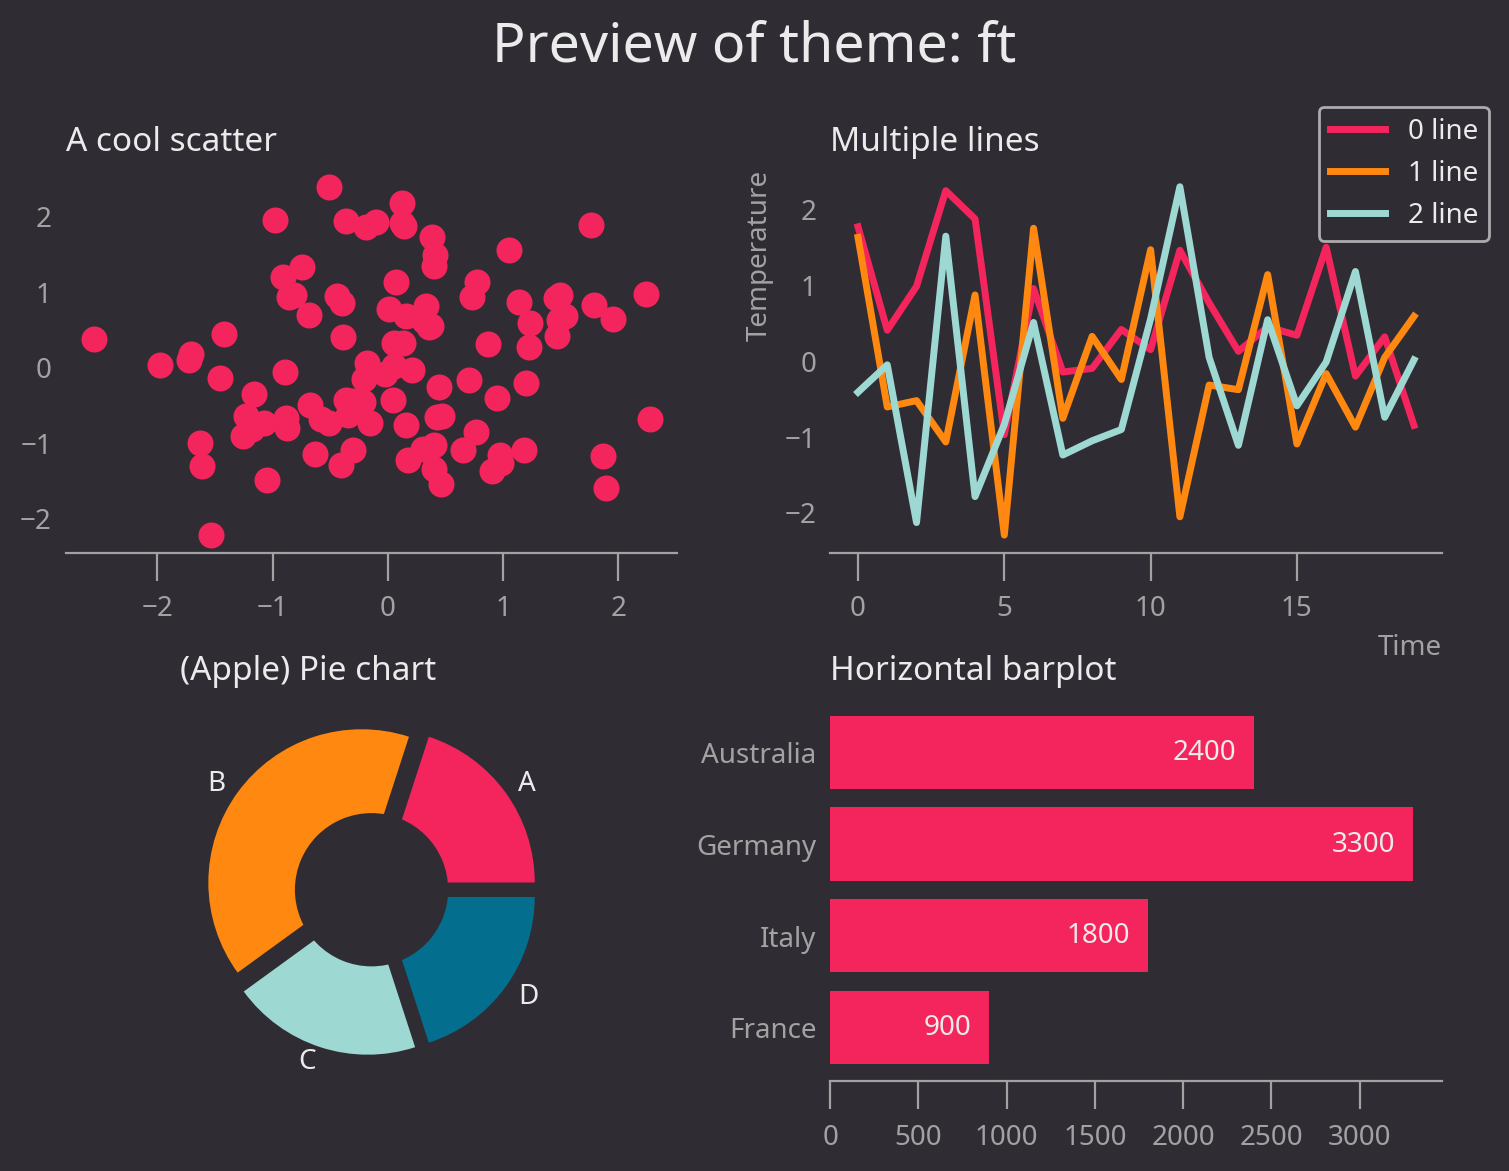
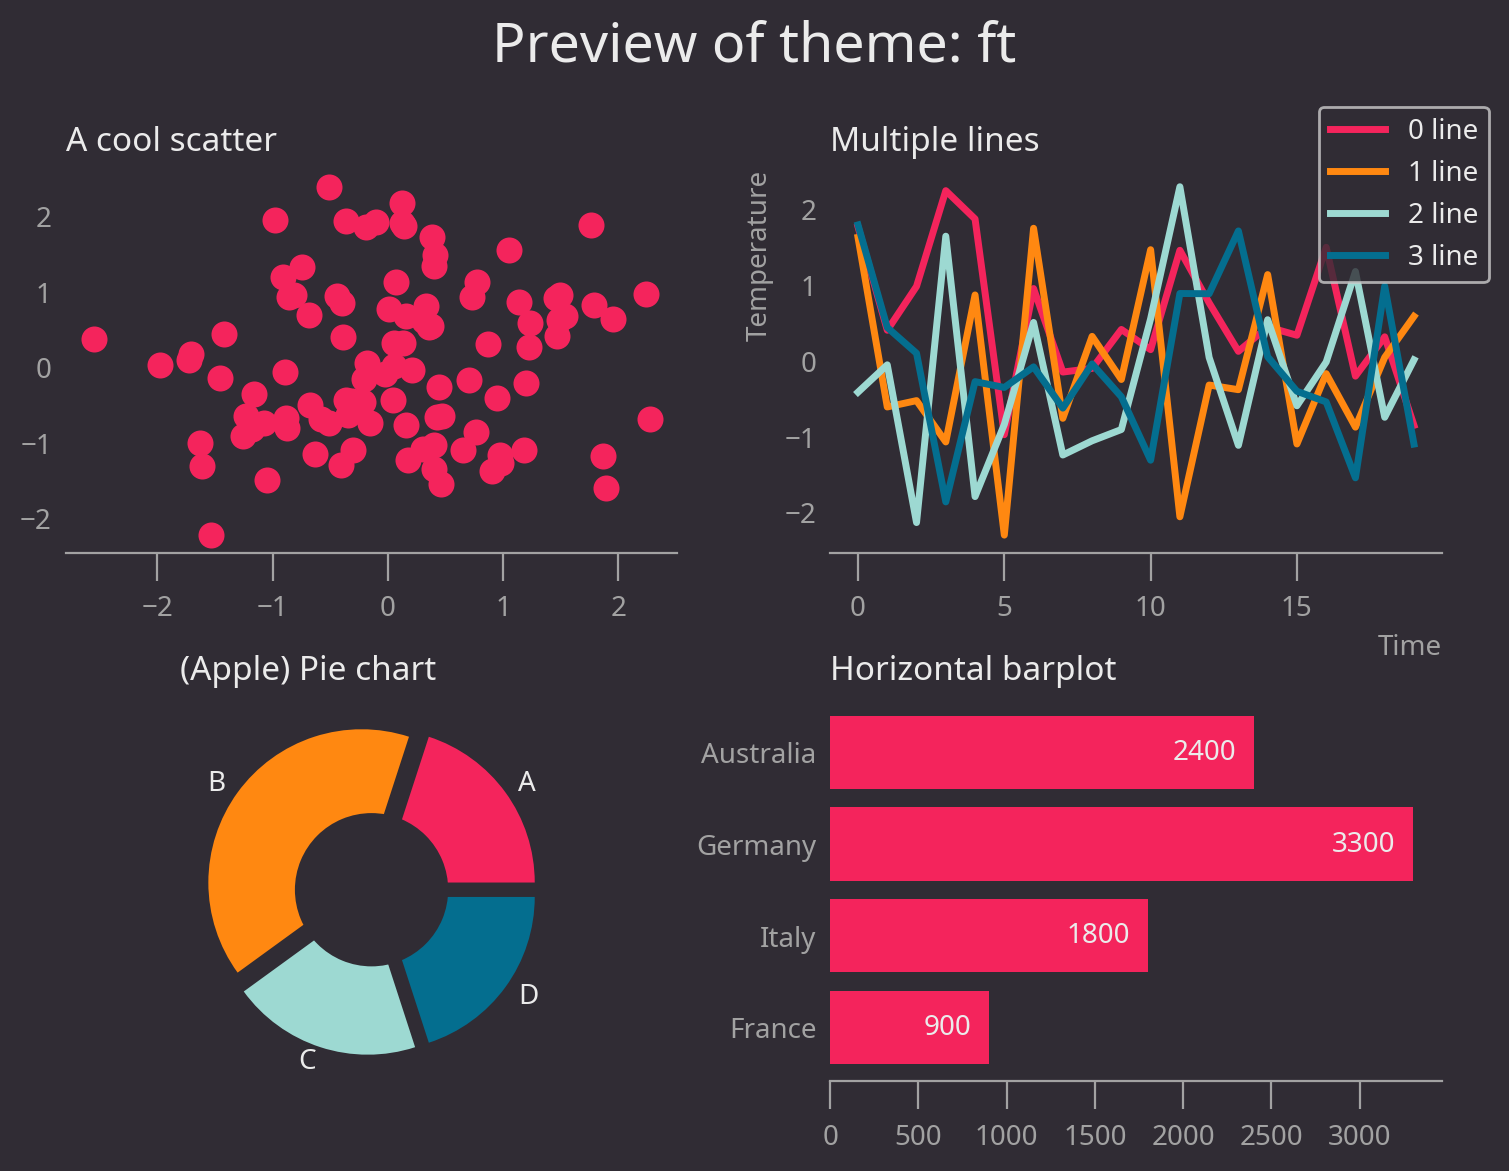
2 new themes + fix typos in doc + small stuff (#33)
* fix typos in doc + small stuff

* add color blind friendly theme

* new dark theme

* typos

* update theme order + small fix

* reorder

diff --git a/morethemes/themes.py b/morethemes/themes.py
@@ -3,7 +3,7 @@ from matplotlib import font_manager
 from pyfonts import load_google_font
 
 
-def _set_family(family, **kargs):
+def _set_family(family: str, **kargs) -> str:
     font = load_google_font(family, **kargs)
     font_file = font.get_file()
     font_manager.fontManager.addfont(font_file)
@@ -532,6 +532,81 @@ nord_theme = {
     },
 }
 
+lumen_theme = {
+    "name": "lumen",
+    "description": "Color-blind-friendly light theme with clear colors and soft background.",
+    "theme": {
+        "font.family": _set_family("Manrope"),
+        "axes.spines.top": False,
+        "axes.spines.right": False,
+        "xtick.minor.visible": False,
+        "ytick.minor.visible": False,
+        "xtick.major.size": 5,
+        "ytick.major.size": 5,
+        "axes.grid": True,
+        "grid.color": "#DDDDDD",
+        "grid.alpha": 0.3,
+        "grid.linestyle": "-",
+        "axes.linewidth": 1.2,
+        "text.color": "#222222",
+        "axes.edgecolor": "#222222",
+        "axes.labelcolor": "#222222",
+        "xtick.color": "#222222",
+        "ytick.color": "#222222",
+        "axes.facecolor": "#FFFFFF",
+        "figure.facecolor": "#FFFFFF",
+        "lines.linewidth": 2,
+        "axes.prop_cycle": cycler(
+            "color",
+            [
+                "#E69F00",
+                "#56B4E9",
+                "#009E73",
+                "#F0E442",
+                "#0072B2",
+                "#D55E00",
+                "#CC79A7",
+            ],
+        ),
+    },
+}
+
+ebonis_theme = {
+    "name": "ebonis",
+    "description": "Color-blind-friendly dark theme with high contrast and soft tones for dark backgrounds.",
+    "theme": {
+        "font.family": _set_family("Bricolage Grotesque"),
+        "axes.spines.top": False,
+        "axes.spines.right": False,
+        "xtick.minor.visible": False,
+        "ytick.minor.visible": False,
+        "xtick.major.size": 5,
+        "ytick.major.size": 5,
+        "axes.grid": False,
+        "axes.linewidth": 1.2,
+        "text.color": "#EEEEEE",
+        "axes.edgecolor": "#EEEEEE",
+        "axes.labelcolor": "#EEEEEE",
+        "xtick.color": "#EEEEEE",
+        "ytick.color": "#EEEEEE",
+        "axes.facecolor": "#0e0e0eff",
+        "figure.facecolor": "#0e0e0eff",
+        "lines.linewidth": 2,
+        "axes.prop_cycle": cycler(
+            "color",
+            [
+                "#E69F00",
+                "#56B4E9",
+                "#0072B2",
+                "#F0E442",
+                "#CC79A7",
+                "#D55E00",
+                "#009E73",
+            ],
+        ),
+    },
+}
+
 
 ALL_THEMES = {
     "wsj": wsj_theme,
@@ -541,10 +616,12 @@ ALL_THEMES = {
     "nature": nature_theme,
     "economist": economist_theme,
     "greenwave": greenwave_theme,
+    "lumen": lumen_theme,
+    "ebonis": ebonis_theme,
+    "lighter": lighter_theme,
     "vscode-dark": vscode_dark_theme,
     "nord": nord_theme,
     "retro": retro_theme,
-    "lighter": lighter_theme,
     "darker": darker_theme,
     "yellowish": yellowish_theme,
     "monoblue": monoblue_theme,

diff --git a/morethemes/preview.py b/morethemes/preview.py
@@ -1,10 +1,10 @@
 import matplotlib.pyplot as plt
-import matplotlib as mpl
+from matplotlib.figure import Figure
 import morethemes as mt
 import numpy as np
 
 
-def preview_theme(theme=None) -> mpl.figure.Figure:
+def preview_theme(theme=None) -> Figure:
     if theme is not None:
         mt.set_theme(theme)
     np.random.seed(0)
@@ -19,7 +19,7 @@ def preview_theme(theme=None) -> mpl.figure.Figure:
         x=0, y=1.05, s="A cool scatter", transform=axs[0, 0].transAxes, size=12
     )
 
-    for i in range(3):
+    for i in range(4):
         np.random.seed(i)
         axs[0, 1].plot(list(range(20)), np.random.normal(size=20), label=f"{i} line")
     axs[0, 1].legend(loc="upper right", bbox_to_anchor=(1.1, 1.2))

diff --git a/tests/test_main.py b/tests/test_main.py
@@ -1,3 +1,4 @@
+from matplotlib.figure import Figure
 import matplotlib as mpl
 import matplotlib.pyplot as plt
 import pytest
@@ -42,4 +43,4 @@ def test_set_theme_default():
 def test_preview_theme():
     """Check that preview theme works"""
     fig = mt.preview_theme("ft")
-    assert isinstance(fig, mpl.figure.Figure)
+    assert isinstance(fig, Figure)

diff --git a/README.md b/README.md
@@ -32,7 +32,7 @@ function.
 
 ## Themes
 
-**`morethemes`** offers 14 themes at the moment:
+**`morethemes`** offers 16 themes at the moment:
 
 ### WSJ
 
@@ -97,6 +97,33 @@ mt.set_theme("greenwave")
 
 [![](https://raw.githubusercontent.com/y-sunflower/morethemes/refs/heads/main/docs/img/greenwave.png)](https://y-sunflower.github.io/morethemes/)
 
+### LUMEN
+
+``` python
+import morethemes as mt
+mt.set_theme("lumen")
+```
+
+[![](https://raw.githubusercontent.com/y-sunflower/morethemes/refs/heads/main/docs/img/lumen.png)](https://y-sunflower.github.io/morethemes/)
+
+### EBONIS
+
+``` python
+import morethemes as mt
+mt.set_theme("ebonis")
+```
+
+[![](https://raw.githubusercontent.com/y-sunflower/morethemes/refs/heads/main/docs/img/ebonis.png)](https://y-sunflower.github.io/morethemes/)
+
+### LIGHTER
+
+``` python
+import morethemes as mt
+mt.set_theme("lighter")
+```
+
+[![](https://raw.githubusercontent.com/y-sunflower/morethemes/refs/heads/main/docs/img/lighter.png)](https://y-sunflower.github.io/morethemes/)
+
 ### VSCODE-DARK
 
 ``` python
@@ -123,15 +150,6 @@ mt.set_theme("retro")
 ```
 
 [![](https://raw.githubusercontent.com/y-sunflower/morethemes/refs/heads/main/docs/img/retro.png)](https://y-sunflower.github.io/morethemes/)
-
-### LIGHTER
-
-``` python
-import morethemes as mt
-mt.set_theme("lighter")
-```
-
-[![](https://raw.githubusercontent.com/y-sunflower/morethemes/refs/heads/main/docs/img/lighter.png)](https://y-sunflower.github.io/morethemes/)
 
 ### DARKER
 

diff --git a/docs/index.md b/docs/index.md
@@ -16,7 +16,7 @@ line of code.
 
 ## Themes
 
-**`morethemes`** offers 14 themes at the moment:
+**`morethemes`** offers 16 themes at the moment:
 
 === "WSJ"
 
@@ -95,6 +95,39 @@ line of code.
 
     A sleek, dark-themed aesthetic with vibrant green accents, inspired by modern streaming interfaces. Designed for clarity and style, with bold typography and a focus on visual harmony.
 
+=== "LUMEN"
+
+    ![](img/lumen.png)
+
+    ```python
+    import morethemes as mt
+    mt.set_theme("lumen")
+    ```
+
+    Color-blind-friendly light theme with clear colors and soft background.
+
+=== "EBONIS"
+
+    ![](img/ebonis.png)
+
+    ```python
+    import morethemes as mt
+    mt.set_theme("ebonis")
+    ```
+
+    Color-blind-friendly dark theme with high contrast and soft tones for dark backgrounds.
+
+=== "LIGHTER"
+
+    ![](img/lighter.png)
+
+    ```python
+    import morethemes as mt
+    mt.set_theme("lighter")
+    ```
+
+    A clean, modern theme inspired by the lighter aesthetic, perfect for technical charts.
+
 === "VSCODE-DARK"
 
     ![](img/vscode-dark.png)
@@ -127,17 +160,6 @@ line of code.
     ```
 
     A nostalgic theme inspired by vintage graphics and retro gaming.
-
-=== "LIGHTER"
-
-    ![](img/lighter.png)
-
-    ```python
-    import morethemes as mt
-    mt.set_theme("lighter")
-    ```
-
-    A clean, modern theme inspired by the lighter aesthetic, perfect for technical charts.
 
 === "DARKER"
 

diff --git a/docs/guide/reference.md b/docs/guide/reference.md
@@ -2,17 +2,7 @@ This document explains everything you need to get started using **`morethemes`**
 
 <br>
 
-## Install
-
-```bash
-pip install morethemes
-```
-
-<br>
-
-## Functions
-
-### `mt.set_theme()`
+## `mt.set_theme()`
 
 `mt.set_theme()` is the **main function** you'll need. It basically has 2 arguments:
 
@@ -29,7 +19,7 @@ mt.set_theme("wsj") # Wall Street Journal
 
 <br>
 
-### `mt.get_rcparams()`
+## `mt.get_rcparams()`
 
 You can get the current rcParams of a given theme by calling `mt.get_rcparams()`. It takes one argument: `theme_name` and returns a dictionary of rcParams.
 
@@ -53,8 +43,8 @@ Another usage of this function is to avoid adding **`morethemes`** in your depen
 
 <br>
 
-### `mt.preview_theme()`
+## `mt.preview_theme()`
 
-A convenient function when creating a theme. It will make many different charts and you'll easily be able to view how your theme currently looks like. Learn more in [create your theme page](../create-your-theme/).
+A convenient function when creating a theme. It will make many different charts and you'll easily be able to view how your theme currently looks like. Learn more in [create your theme page](./create-your-theme.md).
 
 <br><br>

diff --git a/docs/guide/create-your-theme.md b/docs/guide/create-your-theme.md
@@ -121,9 +121,9 @@ We said before that there was more than 300 parameters to custom. Here are a few
 To get all possible parameters and their default values, run:
 
 ```python
-# mkdocs: render
 import matplotlib.pyplot as plt
-print(plt.rcParams.keys())
+
+plt.rcParams.keys()
 ```
 
 ### Colors
@@ -180,6 +180,6 @@ As there are many other things to customise here, **take a look at what other th
 
 ## Add your theme to **`morethemes`**
 
-Once your theme is nice, you can follow the [contributing guide](../../contributing) to help you implement this new theme.
+Once your theme is nice, you can follow the [contributing guide](../contributing.md) to help you implement this new theme.
 
 <br><br>

diff --git a/docs/guide/custom-a-theme.md b/docs/guide/custom-a-theme.md
@@ -44,6 +44,6 @@ plt.rcParams["axes.facecolor"] = "skyblue"
 mt.preview_theme()
 ```
 
-There is no easy way to know what parameters you need to change to fit your exact needs, but you can find more info in the [create your theme page](../create-your-theme/).
+There is no easy way to know what parameters you need to change to fit your exact needs, but you can find more info in the [create your theme page](./create-your-theme.md).
 
 <br><br>

diff --git a/docs/contributing.md b/docs/contributing.md
@@ -51,7 +51,7 @@ sunglasses_theme = {
 
 !!! note
 
-    If you're looking how to make a (great) theme, check [this](../guide/create-your-theme).
+    If you're looking how to make a (great) theme, check [this](./guide/create-your-theme.md).
 
 - At the end of `morethemes/morethemes/themes.py`, add your theme to `ALL_THEMES`:
 
